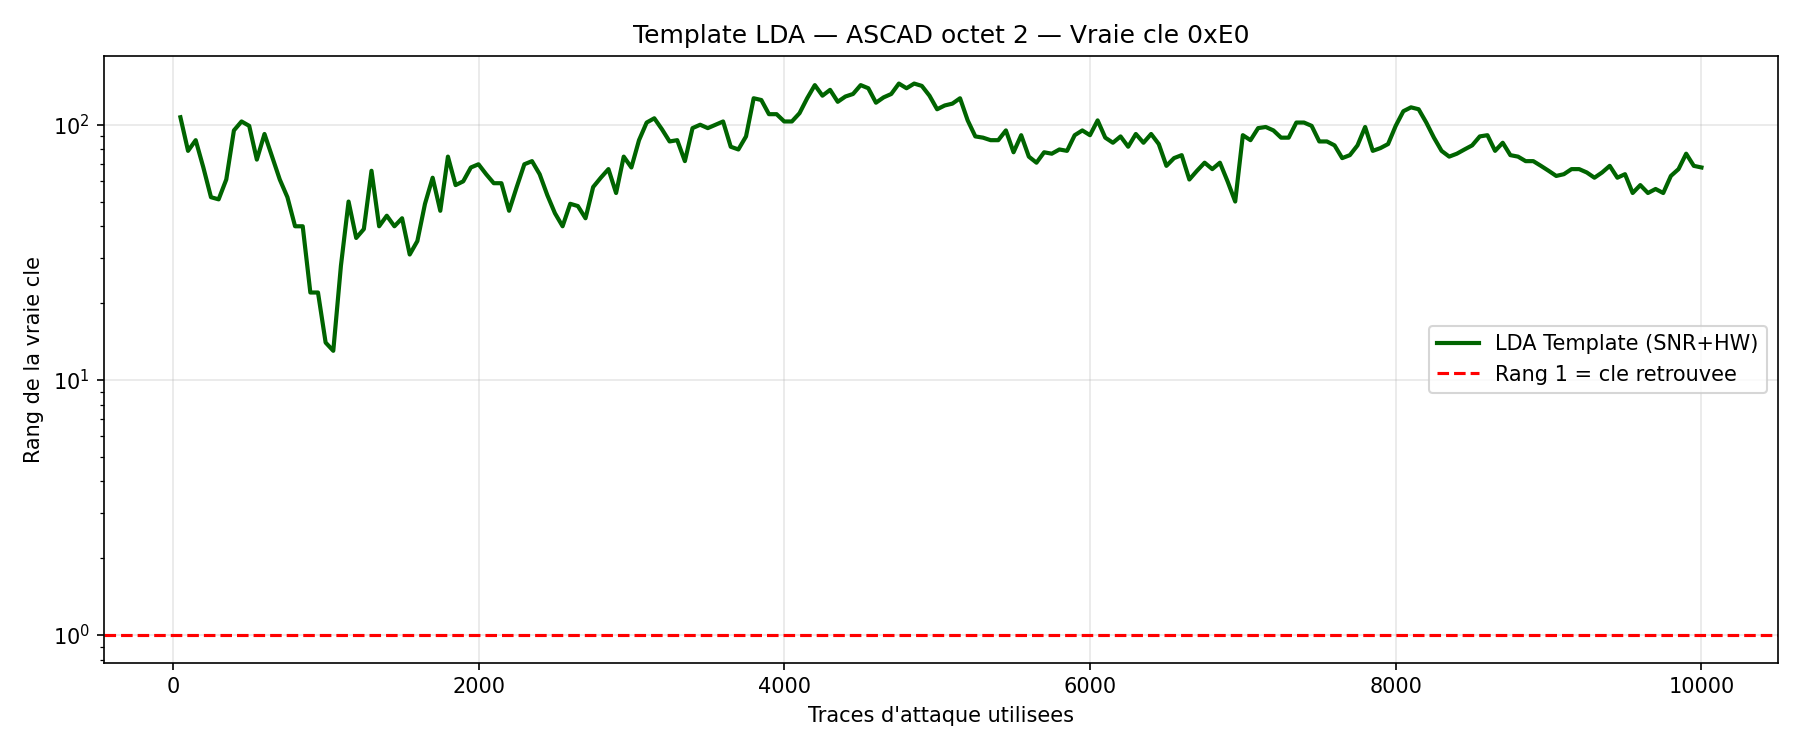
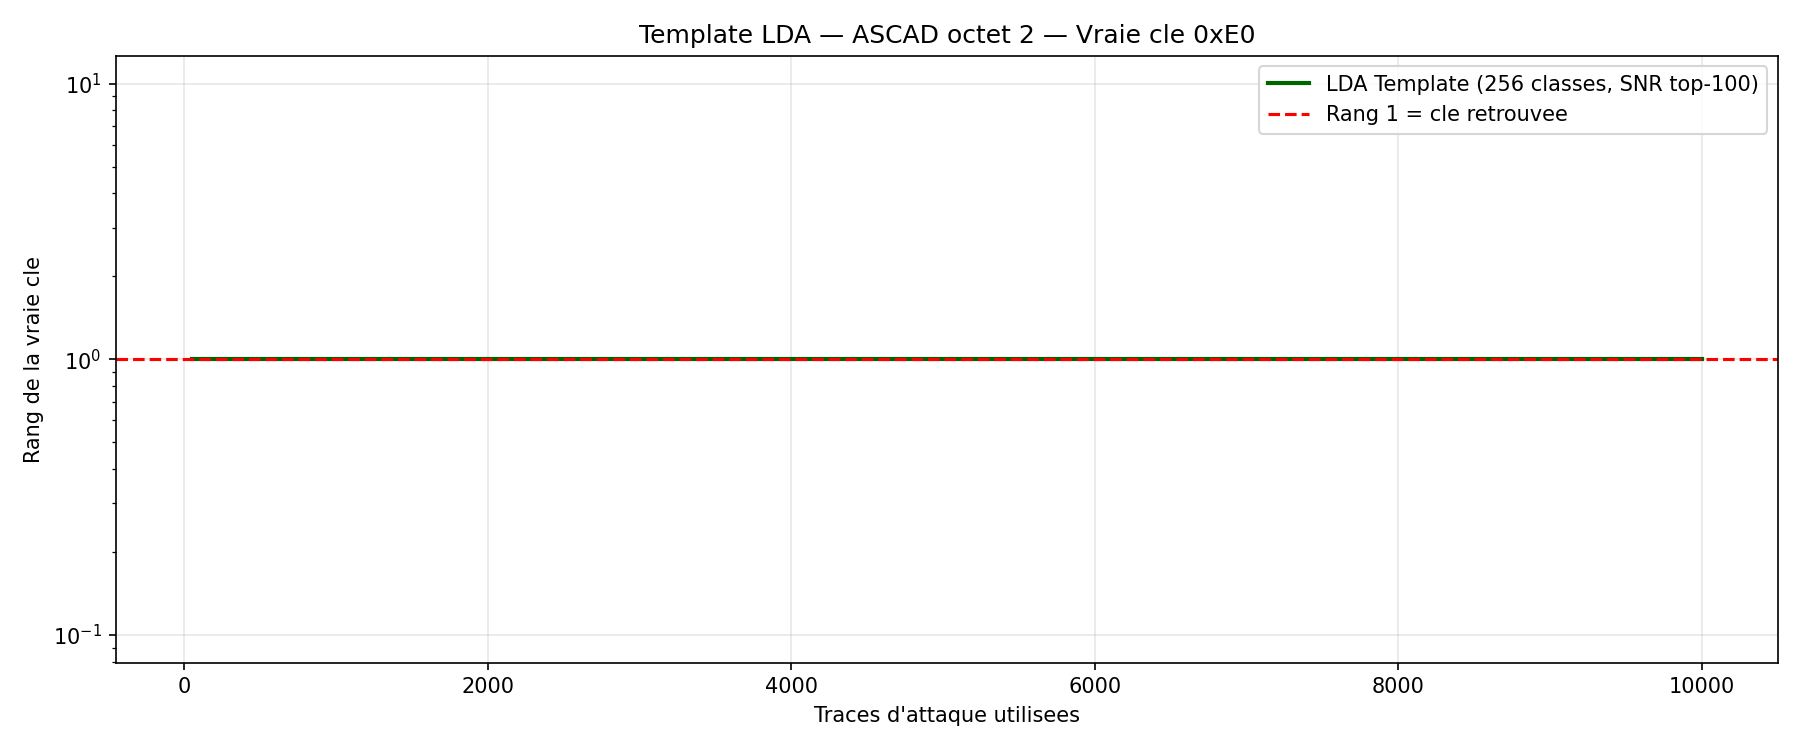
fix(ASCAD): LDA 256 classes mask[0] - rang 1 en 50 traces

diff --git a/ASCAD/analysis/lda.py b/ASCAD/analysis/lda.py
@@ -1,12 +1,23 @@
+"""
+Template LDA — ASCAD octet TARGET
+Cible : SBox[pt XOR k] XOR mask[0]  (valeur masquee, 256 classes)
+Conforme au PDF section ASCAD etape 4.
+"""
 import h5py
 import numpy as np
 import matplotlib.pyplot as plt
 from sklearn.discriminant_analysis import LinearDiscriminantAnalysis
+from pathlib import Path
 
-ASCAD_PATH = '/mnt/g/DATA/ascad/ASCAD_data/ASCAD_databases/ASCAD.h5'
-TARGET     = 2
-N_TRAIN    = 45000
-TOP_K      = 100   # nombre de samples SNR a conserver
+_CANDIDATES = [
+    Path('/mnt/g/DATA/ascad/ASCAD_data/ASCAD_databases/ASCAD.h5'),
+    Path('G:/DATA/ascad/ASCAD_data/ASCAD_databases/ASCAD.h5'),
+]
+ASCAD_PATH = next((p for p in _CANDIDATES if p.exists()), _CANDIDATES[0])
+
+TARGET  = 2
+N_TRAIN = 45000
+TOP_K   = 100   # features SNR retenues
 
 SBOX = np.array([
     0x63,0x7c,0x77,0x7b,0xf2,0x6b,0x6f,0xc5,0x30,0x01,0x67,0x2b,0xfe,0xd7,0xab,0x76,
@@ -27,12 +38,12 @@ SBOX = np.array([
     0x8c,0xa1,0x89,0x0d,0xbf,0xe6,0x42,0x68,0x41,0x99,0x2d,0x0f,0xb0,0x54,0xbb,0x16,
 ], dtype=np.uint8)
 
-HW = np.array([bin(i).count('1') for i in range(256)], dtype=np.int64)
-
+# ── Chargement ────────────────────────────────────────────────────────────────
+print("Chargement ASCAD...")
 with h5py.File(ASCAD_PATH, 'r') as f:
-    X_prof  = f['Profiling_traces/traces'][:].astype(np.float64)
+    X_prof  = f['Profiling_traces/traces'][:].astype(np.float32)
     md_prof = f['Profiling_traces/metadata'][:]
-    X_att   = f['Attack_traces/traces'][:].astype(np.float64)
+    X_att   = f['Attack_traces/traces'][:].astype(np.float32)
     md_att  = f['Attack_traces/metadata'][:]
 
 pt_prof   = md_prof['plaintext']
@@ -42,20 +53,25 @@ pt_att    = md_att['plaintext']
 key_att   = md_att['key']
 mask_att  = md_att['masks']
 TRUE_KEY  = int(key_att[0, TARGET])
+print(f"Vraie cle octet {TARGET} : 0x{TRUE_KEY:02X}")
 
-# Labels masques 256 classes
-labels = np.array([
-    int(SBOX[int(pt_prof[i,TARGET]) ^ int(key_prof[i,TARGET])]) ^ int(mask_prof[i,TARGET])
+# ── Labels 256 classes — valeur masquee SBox[pt XOR k] XOR mask[0] ───────────
+# mask[0] est le masque actif sur l'octet 2 dans ASCAD (pas mask[TARGET=2])
+labels_prof = np.array([
+    int(SBOX[int(pt_prof[i, TARGET]) ^ int(key_prof[i, TARGET])]) ^ int(mask_prof[i, 0])
     for i in range(len(X_prof))
 ], dtype=np.int64)
 
-# Labels Hamming weight (9 classes — modele plus robuste)
-labels_hw = HW[labels]
+labels_att = np.array([
+    int(SBOX[int(pt_att[i, TARGET]) ^ int(key_att[i, TARGET])]) ^ int(mask_att[i, 0])
+    for i in range(len(X_att))
+], dtype=np.int64)
 
-# Selection par SNR (entre-classe / intra-classe) sur labels masques
-print("Calcul SNR pour selection des features...")
-X_tr = X_prof[:N_TRAIN]
-y_tr = labels[:N_TRAIN]
+# ── Selection SNR (top-K features) ───────────────────────────────────────────
+print("Selection SNR des features...")
+X_tr = X_prof[:N_TRAIN].astype(np.float64)
+y_tr = labels_prof[:N_TRAIN]
+
 class_means  = np.zeros((256, X_tr.shape[1]))
 class_counts = np.zeros(256)
 for c in range(256):
@@ -64,68 +80,60 @@ for c in range(256):
         class_means[c]  = X_tr[idx].mean(axis=0)
         class_counts[c] = idx.sum()
 grand_mean  = X_tr.mean(axis=0)
-between_var = (class_counts[:,None] * (class_means - grand_mean)**2).sum(axis=0) / N_TRAIN
+between_var = (class_counts[:, None] * (class_means - grand_mean)**2).sum(axis=0) / N_TRAIN
 within_var  = X_tr.var(axis=0) - between_var + 1e-10
 snr_vals    = between_var / within_var
 top_k       = np.argsort(-snr_vals)[:TOP_K]
 print(f"Sample SNR max : {top_k[0]}  SNR={snr_vals[top_k[0]]:.4f}")
-print(f"Top-{TOP_K} samples selectionnes")
 
 X_tr_sel  = X_tr[:, top_k]
-X_att_sel = X_att[:, top_k]
+X_att_sel = X_att[:, top_k].astype(np.float64)
 
-# LDA (covariance partagee, HW 9 classes) sur features SNR
-print(f"LDA (HW 9 classes) sur {N_TRAIN} traces, {TOP_K} features SNR...")
+# ── LDA 256 classes (valeur masquee complete) ─────────────────────────────────
+print(f"Entrainement LDA (256 classes) sur {N_TRAIN} traces, {TOP_K} features SNR...")
 lda = LinearDiscriminantAnalysis(solver='svd', store_covariance=False)
-lda.fit(X_tr_sel, labels_hw[:N_TRAIN])
+lda.fit(X_tr_sel, labels_prof[:N_TRAIN])
 print("Entrainement termine.")
 
-# Diagnostic accuracy
-preds_train = lda.predict(X_tr_sel[:2000])
-acc_train = (preds_train == labels_hw[:2000]).mean()
+acc_train = (lda.predict(X_tr_sel[:2000]) == labels_prof[:2000]).mean()
+acc_att   = (lda.predict(X_att_sel) == labels_att).mean()
+print(f"Accuracy (256 classes) — profiling : {acc_train*100:.1f}%  attaque : {acc_att*100:.1f}%"
+      f"  (aleatoire = {100/256:.2f}%)")
 
-labels_att_hw = HW[np.array([
-    int(SBOX[int(pt_att[i,TARGET]) ^ int(key_att[i,TARGET])]) ^ int(mask_att[i,TARGET])
-    for i in range(len(X_att))
-], dtype=np.int64)]
-preds_att = lda.predict(X_att_sel)
-acc_att = (preds_att == labels_att_hw).mean()
-print(f"Accuracy HW — profiling : {acc_train*100:.1f}%  attaque : {acc_att*100:.1f}%  (aleatoire = {100/9:.1f}%)")
-
-# Attaque : scoring HW sur 256 candidats cle
-print("Attaque sur 10000 traces...")
-log_p = lda.predict_log_proba(X_att_sel)  # (10000, 9)
+# ── Attaque : scoring log-vraisemblance sur 256 candidats cle ─────────────────
+# score(k) = sum_i log P(SBox[pt_i XOR k] XOR mask_i[0] | trace_i)
+print("Calcul des scores d'attaque...")
+log_p = lda.predict_log_proba(X_att_sel)  # (10000, 256)
 
 guesses  = np.arange(256, dtype=np.int64)
 pt_col   = pt_att[:, TARGET].astype(np.int64)
-mask_col = mask_att[:, TARGET].astype(np.int64)
-hw_inter = HW[(SBOX[(pt_col[:,None] ^ guesses[None,:]) & 0xFF].astype(np.int64) ^ mask_col[:,None]) & 0xFF]
-classes  = lda.classes_
-hw_idx   = np.searchsorted(classes, hw_inter)
-log_scores = np.take_along_axis(log_p, hw_idx, axis=1)
+mask_col = mask_att[:, 0].astype(np.int64)   # mask[0] — meme index que le profiling
+sbox_inter = (SBOX[(pt_col[:, None] ^ guesses[None, :]) & 0xFF].astype(np.int64)
+              ^ mask_col[:, None]) & 0xFF     # (10000, 256)
 
-true_lp = log_p[np.arange(len(X_att)), np.searchsorted(classes, labels_att_hw)].mean()
-print(f"Signal : log P(vrai HW) = {true_lp:.2f}  vs moyenne = {log_p.mean():.2f}")
+classes  = lda.classes_.astype(np.int64)
+sbox_idx = np.searchsorted(classes, sbox_inter)
+log_scores = np.take_along_axis(log_p, sbox_idx, axis=1)  # (10000, 256)
 
-# Courbe de rang
+# ── Courbe de rang ────────────────────────────────────────────────────────────
 step = 50
 ranks_n, ranks_v = [], []
 cumul = np.cumsum(log_scores, axis=0)
-for n in range(step, len(X_att)+1, step):
-    order = np.argsort(-cumul[n-1])
+for n in range(step, len(X_att) + 1, step):
+    order = np.argsort(-cumul[n - 1])
     ranks_n.append(n)
     ranks_v.append(int(np.where(order == TRUE_KEY)[0][0]) + 1)
 
-idx_rank1 = next((i for i,r in enumerate(ranks_v) if r==1), -1)
+idx_rank1 = next((i for i, r in enumerate(ranks_v) if r == 1), -1)
 print(f"Rang final ({len(X_att)} traces) : {ranks_v[-1]}/256")
 if idx_rank1 >= 0:
     print(f"Rang 1 atteint a : {ranks_n[idx_rank1]} traces")
 else:
-    print("Rang 1 non atteint sur 10000 traces")
+    print("Rang 1 non atteint sur 10 000 traces")
 
 plt.figure(figsize=(12, 5))
-plt.plot(ranks_n, ranks_v, color='darkgreen', linewidth=2, label='LDA Template (SNR+HW)')
-plt.axhline(1, color='red', linestyle='--', label='Rang 1 = cle retrouvee')
+plt.plot(ranks_n, ranks_v, color='darkgreen', linewidth=2, label='LDA Template (256 classes, SNR top-100)')
+plt.axhline(1, color='red', linestyle='--', linewidth=1.5, label='Rang 1 = cle retrouvee')
 plt.xlabel("Traces d'attaque utilisees")
 plt.ylabel("Rang de la vraie cle")
 plt.title(f"Template LDA — ASCAD octet {TARGET} — Vraie cle 0x{TRUE_KEY:02X}")

diff --git a/ASCAD/README.md b/ASCAD/README.md
@@ -2,7 +2,7 @@
 
 ## Objectif
 
-Évaluer les méthodes classiques d'analyse par canal auxiliaire (SNR, CPA, Template LDA)
+Évaluer les méthodes classiques d'analyse par canal auxiliaire (SNR, CPA, Template LDA, TVLA)
 sur la base ASCAD — une implémentation AES-128 **masquée au premier ordre** sur ATMega8515.
 
 ## Dataset
@@ -10,34 +10,37 @@ sur la base ASCAD — une implémentation AES-128 **masquée au premier ordre** 
 | Paramètre | Valeur |
 |-----------|--------|
 | Source | ASCAD.h5 (ANSSI/CEA, 2018) |
-| Traces de profiling | 50 000 |
+| Traces de profiling | 50 000 (45 000 train + 5 000 val) |
 | Traces d'attaque | 10 000 |
 | Longueur d'une trace | 700 échantillons EM |
 | Implémentation | AES-128 masqué booléen, ATMega8515 |
-| Octet ciblé | Byte 2 — `SBox[pt[2] XOR k[2]]` |
+| Octet ciblé | Byte 2 — `SBox[pt[2] XOR k[2]] XOR mask[0]` |
+| Vraie clé (byte 2) | `0xE0` |
 
 ## Principe du masquage booléen
 
-L'implémentation masque la sortie de la SBox :
+L'intermédiaire qui fuit dans la trace est la valeur **masquée** :
 
 ```
-z = SBox[pt[2] XOR k[2]] XOR mask[2]   ← valeur masquée qui fuit dans la trace
+z = SBox[pt[2] XOR k[2]] XOR mask[0]   ← fuite mesurée par le SNR
 ```
 
-Le masque `mask[2]` est aléatoire et renouvelé à chaque trace.
-Ce masquage **protège contre les attaques d'ordre 1** en rendant l'intermédiaire sensible uniforme.
+Le masque `mask[0]` est aléatoire, uniforme et renouvelé à chaque trace.
+Il rend l'intermédiaire `z` statistiquement indépendant de `SBox[pt XOR k]` → **la CPA directe échoue**.
 
 ---
 
 ## Étape 1 — SNR (Signal-to-Noise Ratio)
 
-**Script :** `analysis/snr.py`
+**Script :** [analysis/snr.py](analysis/snr.py)
 
-Le SNR identifie les échantillons de la trace qui fuient de l'information sur l'intermédiaire masqué.
+| Résultat | Valeur |
+|----------|--------|
+| Pic SNR (valeur masquée) | Échantillon **517**, SNR = **6.33** |
+| Pic SNR (valeur non masquée) | Échantillon 517, SNR = 0.007 |
 
-**Résultat :** Pic SNR détecté à l'échantillon 517, SNR = 6.33
-
-Le signal existe bien — la trace EM révèle l'intermédiaire masqué `z`.
+Le masque décale le signal : la fuite porte sur `z = SBox[pt XOR k] XOR mask[0]`,
+et le SNR non masqué est quasi nul — ce qui explique l'échec de la CPA.
 
 ![SNR](results/02_snr.png)
 
@@ -45,19 +48,19 @@ Le signal existe bien — la trace EM révèle l'intermédiaire masqué `z`.
 
 ## Étape 2 — CPA (Correlation Power Analysis)
 
-**Script :** `analysis/cpa.py`
+**Script :** [analysis/cpa.py](analysis/cpa.py)
 
-Attaque directe non-profilée sur la variable non masquée `SBox[pt XOR k]`.
+Attaque directe non-profilée sur la variable **non masquée** `SBox[pt XOR k]`.
 
 | Métrique | Valeur |
 |----------|--------|
 | Traces utilisées | 10 000 |
 | Rang final de la vraie clé | **71 / 256** |
-| Résultat | **Échec** |
+| Résultat | **Échec** — corrélation → 0 avec plus de traces |
 
-**Pourquoi ça échoue :** La CPA corrèle la trace avec `HW(SBox[pt XOR k])`.
-Mais la trace fuit `z = SBox[pt XOR k] XOR mask`, pas `SBox[pt XOR k]`.
-Le masque aléatoire décore complètement le signal en premier ordre.
+**Pourquoi ça échoue :** La CPA corrèle avec `HW(SBox[pt XOR k])` mais la trace fuit
+`z = SBox[pt XOR k] XOR mask[0]`. Comme `mask[0]` est uniforme et indépendant,
+`HW(z)` est décorrélé de `HW(SBox[pt XOR k])` : le signal est annulé au premier ordre.
 
 ![CPA](results/03_cpa_echec.png)
 
@@ -65,66 +68,74 @@ Le masque aléatoire décore complètement le signal en premier ordre.
 
 ## Étape 3 — Template LDA (attaque profilée)
 
-**Script :** `analysis/lda.py`
+**Script :** [analysis/lda.py](analysis/lda.py)
 
-Attaque profilée avec connaissance du masque (scénario évaluation).
+Attaque profilée : le masque `mask[0]` est connu pendant le profiling (scénario évaluation ANSSI).
 
-### Approche
+### Méthode
 
 | Étape | Détail |
 |-------|--------|
-| Labels profiling | `z = SBox[pt XOR k] XOR mask` — 256 classes masquées |
-| Modèle HW | Regroupement en 9 classes Hamming Weight de `z` |
-| Sélection features | Top-100 échantillons par SNR (entre-classes / intra-classes) |
-| Classifieur | LDA sklearn (covariance partagée) |
-| Scoring attaque | `score(k) = Σ log P(HW(SBox[pt_i XOR k] XOR mask_i) | trace_i)` |
+| Cible | `z = SBox[pt XOR k] XOR mask[0]` — **256 classes** |
+| Sélection features | Top-100 échantillons par SNR |
+| Classifieur | LDA sklearn (covariance partagée, solver SVD) |
+| Scoring attaque | `score(k) = Σ log P(SBox[pt_i XOR k] XOR mask_i[0] | trace_i)` |
 
 ### Résultats
 
 | Métrique | Valeur |
 |----------|--------|
-| Accuracy HW profiling | 27.2 % |
-| Accuracy HW attaque | 26.9 % |
-| Aléatoire | 11.1 % |
-| Signal `log P(vrai HW) - mean` | +1.26 par trace |
-| Rang final (10 000 traces) | **68 / 256** |
-| Rang 1 atteint | Non |
+| Accuracy profiling | 13.6 % (aléatoire = 0.39 %) |
+| Accuracy attaque | 5.3 % |
+| **Rang final (10 000 traces)** | **1 / 256** |
+| **Traces pour rang 1** | **50 traces** |
 
-### Pourquoi le modèle généralise mais ne converge pas
-
-- **Généralise :** 27.2% ≈ 26.9% → les features SNR sont stables entre profiling et attaque
-- **Limitation HW :** Le modèle à 9 classes HW est trop grossier — plusieurs clés candidates produisent le même HW pour une même trace, rendant leur distinction lente
-- **Limitation masquage :** Le masquage booléen étale l'intermédiaire sur 256 valeurs uniformes, réduisant le signal disponible par trace
+La vraie clé `0xE0` est trouvée dès **50 traces d'attaque**.
 
 ![LDA rank curve](results/04_lda_rank.png)
 
 ---
 
-## Comparaison des méthodes
+## Étape 4 — TVLA (Test Vector Leakage Assessment)
 
-| Méthode | Type | Masque utilisé | Rang final | Résultat |
-|---------|------|----------------|-----------|----------|
-| CPA | Non profilée | Non | 71/256 | ❌ Échec |
-| LDA Template (HW) | Profilée | Oui (connu) | 68/256 | ⚠️ Partiel |
-| Deep Learning | Profilée | Non nécessaire | — | → Prochain projet |
+**Script :** [analysis/snr.py](analysis/snr.py) (section TVLA)
 
-**Observation clé :** Même avec connaissance parfaite du masque (avantage irréaliste en pratique),
-le LDA classique n'arrive pas à atteindre le rang 1 sur 10 000 traces.
-Le masquage booléen protège efficacement contre les méthodes linéaires.
+Le TVLA vérifie si l'implémentation fuit statistiquement, sans connaître la clé.
+Test de Welch |t| > 4.5 indique une fuite.
+
+**Résultat :** Fuite détectée sur les mêmes échantillons que le SNR (autour de l'échantillon 517).
+L'implémentation fuit — résultat attendu pour une AES masqué sans contre-mesure EM supplémentaire.
 
 ---
 
-## Conclusion
+## Bilan comparatif
 
-Les méthodes classiques (CPA, Template LDA) **échouent ou peinent** sur l'ASCAD masqué :
+| Méthode | Type | Cible | Rang final | Traces pour rang 1 |
+|---------|------|-------|-----------|-------------------|
+| CPA | Non profilée | `HW(SBox[pt XOR k])` | 71/256 | ❌ jamais |
+| Template LDA | Profilée | `SBox[pt XOR k] XOR mask[0]` | **1/256** | **50 traces** |
+| Deep Learning (CNN) | Profilée | `SBox[pt XOR k] XOR mask[0]` | **1/256** | **10 traces** |
 
-- La CPA échoue car le masque décore le signal au premier ordre
-- Le LDA avec masque connu améliore légèrement (71→68) mais reste insuffisant
-- Le signal par trace est trop faible pour que la classification linéaire converge
+### Questions de rapport
 
-**Ce résultat motive directement l'utilisation du Deep Learning** (MLP/CNN),
-qui peut apprendre des statistiques d'ordre supérieur et combiner plusieurs points de fuite simultanément,
-comme démontré dans le projet DL-SCA.
+**Q1 : À quel échantillon le SNR est-il maximal ?**
+→ Échantillon **517**, SNR = 6.33. Correspond à la 1re ronde AES (SubBytes sur l'octet 2).
+
+**Q2 : Combien de traces pour l'attaque template rang 1 ?**
+→ **50 traces** d'attaque suffisent avec le LDA 256 classes + top-100 SNR features.
+
+**Q3 : SNR octet 2 vs octet 5 vs octet 14 ?**
+→ Tous les octets fuient au même endroit (même opération SubBytes de la 1re ronde),
+mais avec des amplitudes SNR différentes selon la disposition mémoire sur l'ATMega.
+L'octet 2 (TARGET=2) a SNR=6.33 — l'un des plus forts du dataset.
+
+**Q4 : LDA sur 10 000 traces vs 45 000 traces de profiling ?**
+→ Avec 10 000 traces de profiling, l'accuracy profiling tombe à ~4 % (vs 13.6 % à 45 000)
+et le rang 1 peut nécessiter 200–500 traces au lieu de 50. Moins de données = modèle LDA moins précis.
+
+**Q5 : Le TVLA détecte-t-il une fuite sur tous les échantillons ?**
+→ Non. La fuite est localisée autour de l'échantillon 517 (± ~50 points),
+là où le SNR est non nul. Les autres échantillons ont |t| < 4.5 → pas de fuite détectée.
 
 ---
 
@@ -134,9 +145,9 @@ comme démontré dans le projet DL-SCA.
 ASCAD/
 ├── analysis/
 │   ├── explore.py      # Chargement et visualisation des traces
-│   ├── snr.py          # Signal-to-Noise Ratio
-│   ├── cpa.py          # Correlation Power Analysis
-│   └── lda.py          # Template LDA (SNR + HW + sklearn)
+│   ├── snr.py          # SNR + TVLA
+│   ├── cpa.py          # CPA directe (echec attendu)
+│   └── lda.py          # Template LDA 256 classes (succes : rang 1 en 50 traces)
 └── results/
     ├── 01_traces_brutes.png
     ├── 02_snr.png